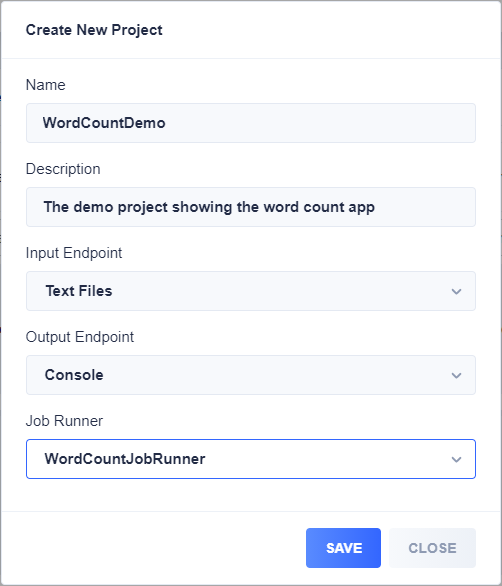
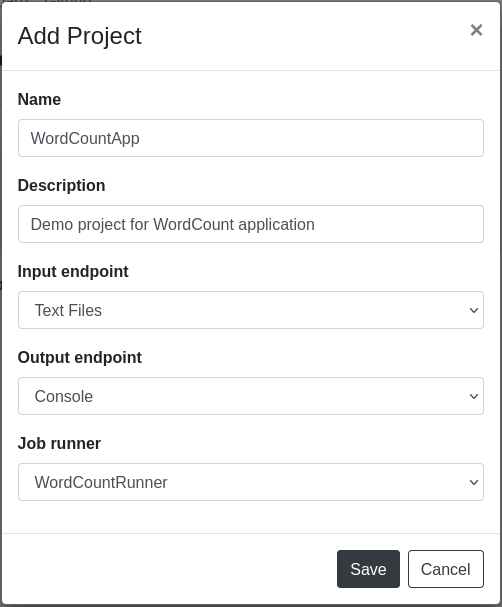
Upgrade the version of Spark and dotnet for Spark.

diff --git a/README.md b/README.md
@@ -76,7 +76,7 @@ An application in Abacuza describes how the data should be processed or transfor
    ```
 2. Add NuGet package reference
    ```shell
-   $ dotnet add package Microsoft.Spark --version 1.0.0
+   $ dotnet add package Microsoft.Spark --version 2.0.0
    $ dotnet add package Abacuza.JobRunners.Spark.SDK --prerelease
    ```
 3. Add a new class which derives from the `SparkRunnerBase`, actually its code is copied from the [example code provided by Microsoft](https://dotnet.microsoft.com/learn/data/spark-tutorial/code):
@@ -114,58 +114,62 @@ An application in Abacuza describes how the data should be processed or transfor
    ```shell
    $ dotnet publish -c Release -f net5.0 -r linux-x64 -o published
    ```
-6. Zip the contents in the `published` folder, note that the zip file should only contains the content under the `published` folder, the `published` folder itself shouldn't be zipped
+6. Zip the contents in the `published` folder, note that the zip file should only contains the content under the `published` folder, the `published` folder itself shouldn't be zipped. For example, execute following command under Linux will zip the `published` folder into a ZIP file:
+   ```shell
+   $ zip -rj WordCountApp.zip published/.
+   ```
 
 ### Creating the Spark Cluster Connection
 Before doing the data transformation, you will need to create a cluster connection in Abacuza which connects to a data processing cluster. By default, Abacuza delivers the Spark cluster implementation, which is also the one that is used here.
 
-1. Start Abacuza services and front-end dashboard by using the following command:
+1. Determine your IP address by using the `ifconfig` (or `ipconfig` under Windows)
+2. Edit the `template.env` file and modify the `ACCESS_HOST` environment variable and set it to your IP address
+3. Start Abacuza services and front-end dashboard by using the following command:
    ```shell
-   $ docker-compose up
+   $ docker-compose --env-file template.env up
    ```
    For more information about running Abacuza locally, please refer to [the steps above](#how-to-run)
 
-2. Open your web browser, navigate to `http://localhost:9320`, this opens the Abacuza dashboard
-3. In the left pane, From `Cluster` menu, click `Connections`, then in the `Cluster Connections` page, click the plus icon to create a new cluster connection:
+4. Open your web browser, navigate to `http://<your-ip-address>:9320`, this opens the Abacuza dashboard
+5. Login with your credential, by default, use `super` for username and `P@ssw0rd` for the password
+6. In the left pane, click `Cluster Connections`, then in the `Cluster Connections` page, click the `Add Connection` button to create a new cluster connection
+7. In the `Add Connection` dialog, fill in the name, description fields, for `Cluster type` choose `spark`. In the `Settings` text box, input the Spark settings in JSON format. To be simple, we just specify the base URL to the Spark livy. Click `Save` button to save the changes:
 
-   ![Create Cluster Connection](docs/images/create-cluster-connection.png)
-   
-4. In the `Create New Cluster Connection` dialog, fill in the name, description fields, for `Cluster type` choose `spark`. In the `Settings` text box, input the Spark settings in JSON format. To be simple, we just specify the base URL to the Spark livy. Click `SAVE` button to save the changes:
+   ![Create Cluster Connection](docs/images/new-cluster-connection.png)
 
-   ![New Cluster Connection](docs/images/new-cluster-connection.png)
+   ```json
+   {
+      "baseUrl": "http://192.168.0.110:8998"
+   }
+   ```
 
-5. Now your cluster connection which connects to the running `Spark` instance should be ready:
-
-   ![Cluster Connections](docs/images/cluster-connection-list.png)
+8. Now your cluster connection which connects to the running `Spark` instance should be ready
 
 
 ### Preparing the Job Runner
 Follow the steps below to create a job runner in Abacuza.
-1. From `Jobs` menu, click `Job Runners`, then in the `Job Runners` page, click the plus icon to create a new job runner
+1. Click `Job Runners` menu, then click the `Add Job Runner` button to create a new job runner
 2. In the `Create Job Runner` dialog, fill in the name and description for the job runner, and for the `Cluster type`, choose `Spark`:
 
-   ![Create Job Runner](docs/images/create-job-runner.png)
+   ![New Job Runner](docs/images/create-job-runner.png)
 
-4. Click `SAVE` button, Abacuza will redirect you to the `Job Runner Details` page
-5. In the `Job Runner Details` page, under the `Binaries` section, add the following two files to the `Job Runner`:
-   1. `microsoft-spark-3-0_2.12-1.0.0.jar` - you can find it in your `published` folder
-   2. `WordCount20210313.zip` - This is the Zip file you created in step 6 of chapter [Develop the Word Count Application](#develop-the-word-count-application)
+3. Click `Save` button, Abacuza will redirect you to the `Job Runner Details` page
+4. In the `Job Runner Details` page, under the `Binaries` section, add the following two files to the `Job Runner`:
 
-   ![Job Runner Binaries](docs/images/job-runner-binaries.png)
+   1. `microsoft-spark-3-1_2.12-2.0.0.jar` - you can find it in your `published` folder
+   2. `WordCountApp.zip` - This is the Zip file you created in step 6 of chapter [Develop the Word Count Application](#develop-the-word-count-application)
 
 5. Under the `Payload template` section, use the following JSON document:
    ```json
    {
-      "file": "${jr:binaries:microsoft-spark-3-0_2.12-1.0.0.jar}",
+      "file": "${jr:binaries:microsoft-spark-3-1_2.12-2.0.0.jar}",
       "className": "org.apache.spark.deploy.dotnet.DotnetRunner",
       "args": [
-         "${jr:binaries:WordCountApp20210313.zip}",
-         "WordCountApp",
-         "${proj:input-endpoint}",
-         "${proj:input-endpoint-settings}",
-         "${proj:output-endpoint}",
-         "${proj:output-endpoint-settings}",
-         "${proj:context}"
+      "${jr:binaries:WordCountApp.zip}",
+      "WordCountApp",
+      "${proj:input-defs}",
+      "${proj:output-defs}",
+      "${proj:context}"
       ]
    }
    ```
@@ -173,23 +177,25 @@ Follow the steps below to create a job runner in Abacuza.
 6. Save the job runner
 
 ### Creating the Project
-1. From `Projects` menu, click `Projects`
-2. In the `Projects` page, click the plus icon to add a new project
-3. In the `Create New Project` dialog, fill in the name, description of the project. For `Input Endpoint`, choose `Text Files`; for `Output Endpoint`, choose `Console`, which means that we want the output of the data process to be shown in the console log. For the `Job Runner`, choose the one that we just created in previous steps
+1. Click `Projects` menu
+2. In the `Projects` page, click the `Add Project` button to add a new project
+3. In the `Add Project` dialog, fill in the name, description of the project. For `Input endpoint`, choose `Text Files`; for `Output endpoint`, choose `Console`, which means that we want the output of the data process to be shown in the console log. For the `Job Runner`, choose the one that we just created in previous steps
 
-   ![Create New Project](docs/images/create-new-project.png)
+   ![Add Project](docs/images/create-new-project.png)
 
 4. Save the project, the `Project Details` page will show
-5. Let's prepare some data. Follow the instructions described on [Microsoft official site](https://dotnet.microsoft.com/learn/data/spark-tutorial/data) to create a `demo.txt` file
-6. On the `Project Details` page, under `INPUT` section, add the `demo.txt` as the project input
-7. Click `SUBMIT` button, the data processing job will be submitted to one of the clusters whose type is `spark`, and on that cluster, the customized application that we developed above will be executed for data processing. You can monitor the status of the execution from the `REVISIONS` tab of the `Project Details` page:
+5. Let's prepare some data. Follow the instructions described on [Microsoft official site](https://dotnet.microsoft.com/learn/data/spark-tutorial/data) to create a `input.txt` file
+6. On the `Project Details` page, under `INPUT` tab, add the `input.txt` as the project input
 
-   ![Running Job](docs/images/running-job.png)
+   ![Input Text File](docs/images/project-input-text.png)
 
-8. Once the job is completed successfully, you can click the `log` icon to see the logs. In this example, you can see the following output in the log:
+7. Click `Submit` button, the data processing job will be submitted to one of the clusters whose type is `spark`, and on that cluster, the customized application that we developed above will be executed for data processing. You can monitor the status of the execution from the `REVISIONS` tab of the `Project Details` page
 
-   ![Demo Log](docs/images/demo-log.png)
+   ![Project Revisions](docs/images/project-revisions.png)
 
+8. Once the job is completed successfully, you can click the `log` icon to see the logs. In this example, you can see the following output in the log
+
+   ![Revision Logs](docs/images/revision-logs.png)
 
 For more information about the architecture, the design concepts and the developer's manual, please refer to the [Abacuza Documentation](docs/README.md).
 
